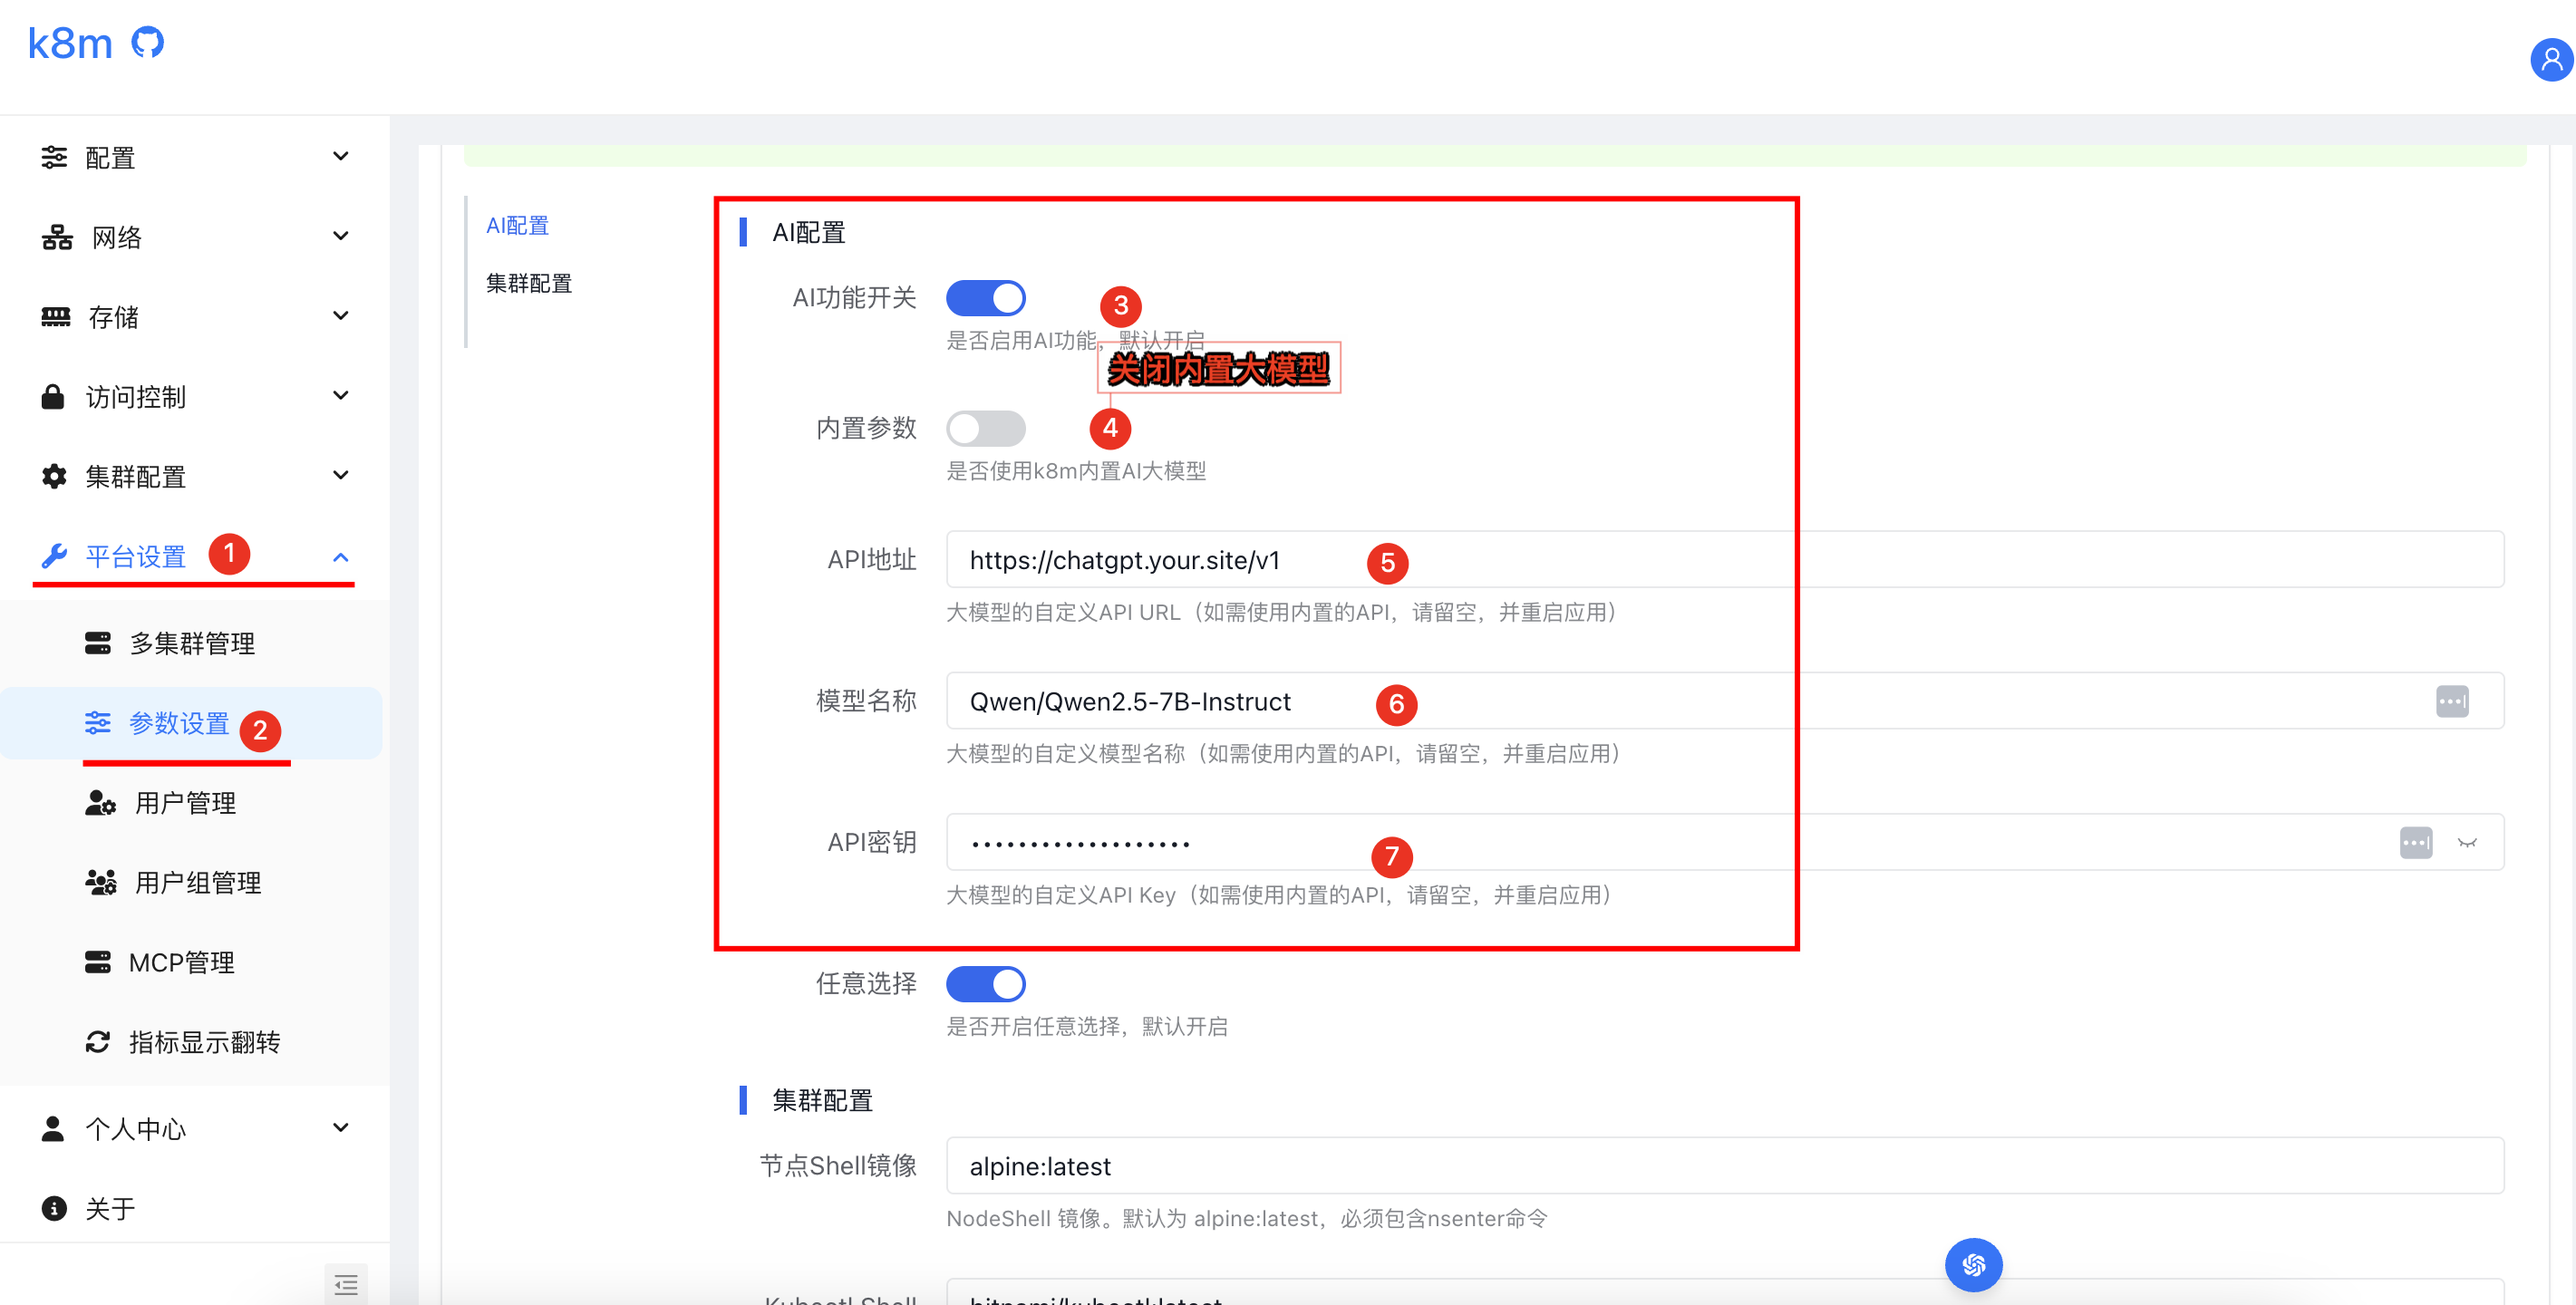
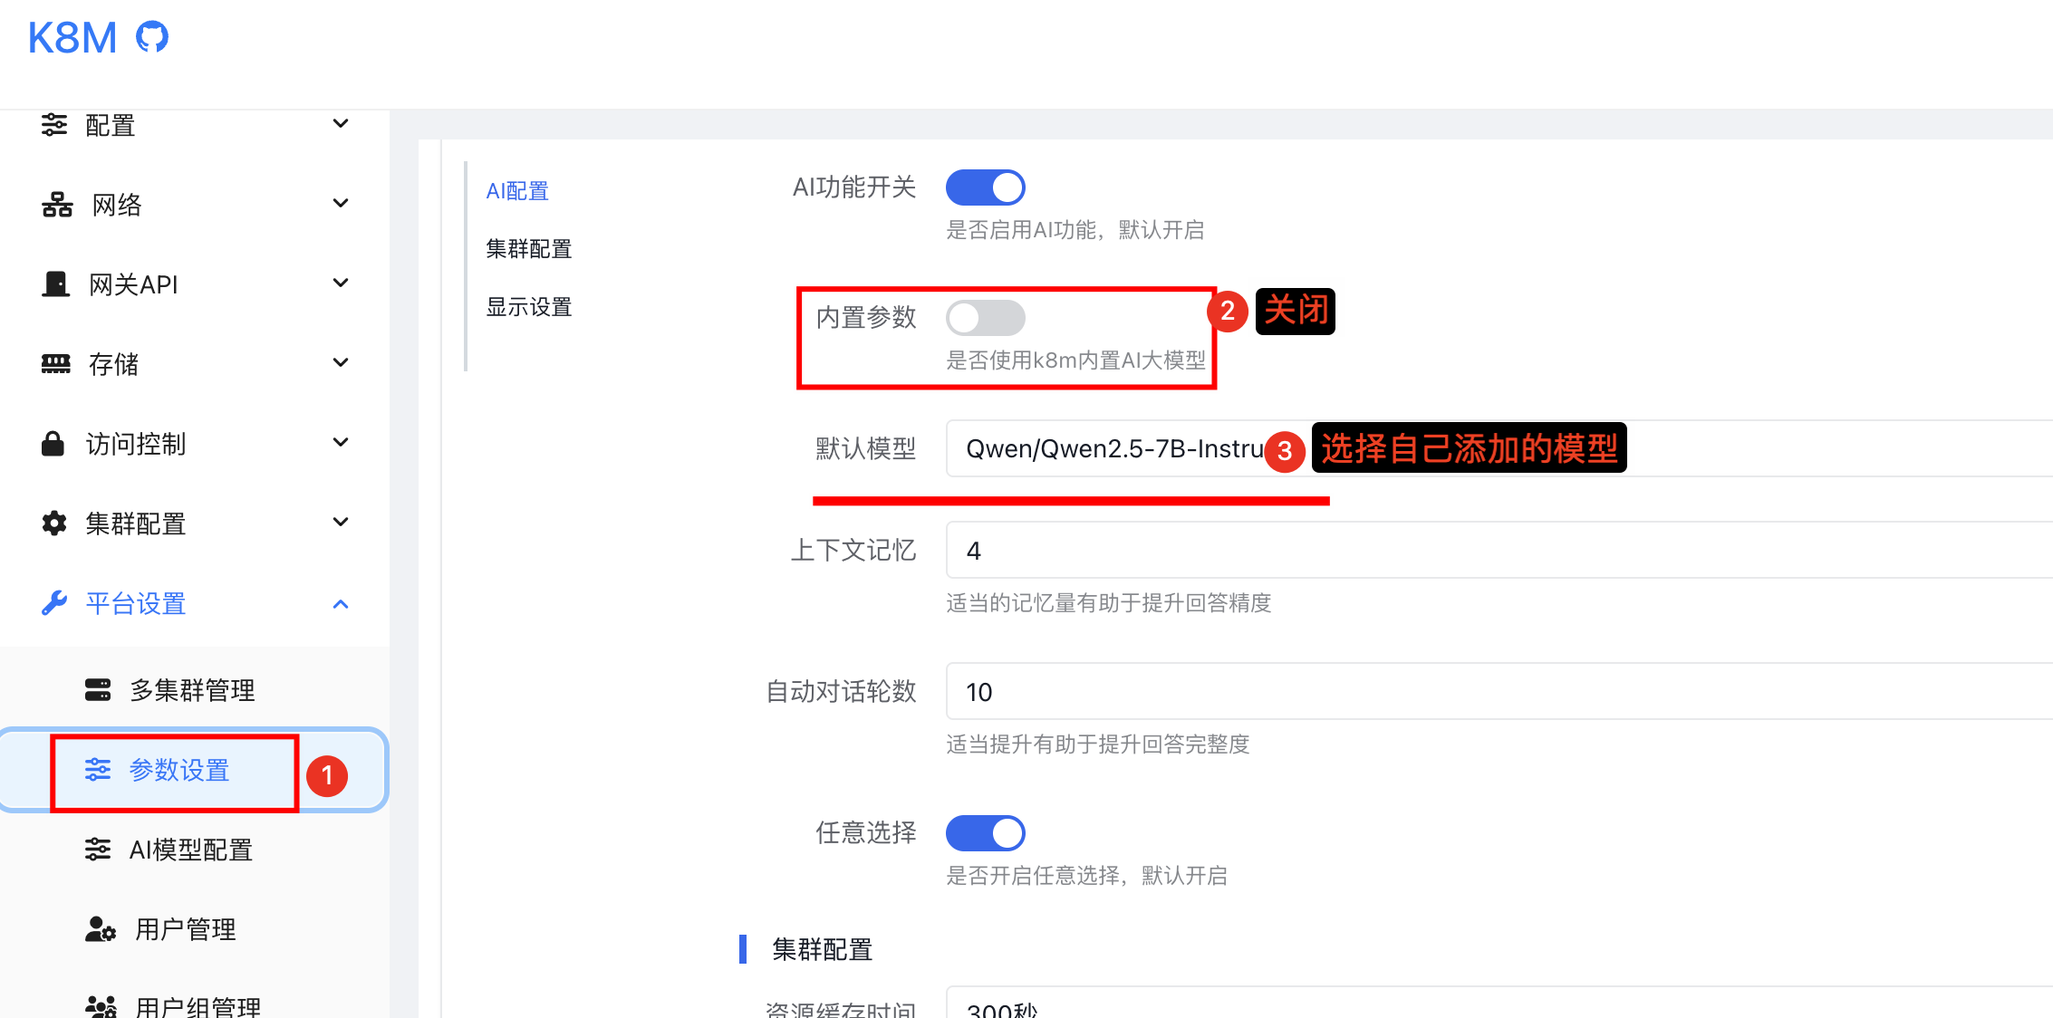
docs(use-self-hosted-ai): 简化自托管AI配置文档并更新配图
- 移除冗余的YAML配置示例，聚焦界面可视化配置方式
- 新增AI模型选择和配置的示意图
- 优化文档结构使其更清晰易读

diff --git a/docs/use-self-hosted-ai.md b/docs/use-self-hosted-ai.md
@@ -1,93 +1,15 @@
 # 如何使用自托管的AI
 
 K8M 支持使用自托管大模型，要求接口兼容OpenAI接口。
-配置上支持yaml配置、界面可视化配置两种方式。
-自定义大模型配置方式同样适用本方案。
 
-# 方法一、界面可视化配置
-进入K8M管理后台，点击左侧菜单中的 `平台设置-参数设置` ，进入AI配置页面
-![AI配置页面](/images/use-self-hosted-ai/ai-config.png)
+# 界面可视化配置
 
+进入K8M管理后台，点击左侧菜单中的 `平台设置-参数设置`。
 
-# 方法二、Yaml配置方式
-## docker-compose配置
-在 `docker-compose.yml` 中添加以下配置：
-```yaml
-services:
-  k8m:
-    container_name: k8m
-    image: registry.cn-hangzhou.aliyuncs.com/minik8m/k8m
-    restart: always
-    ports:
-      - "3618:3618"
-    environment:
-      TZ: Asia/Shanghai
-      ENABLE_TEMP_ADMIN: true
-      ADMIN_USERNAME: admin
-      ADMIN_PASSWORD: 123456
-      #启用AI
-      ENABLE_AI: true
-      #关闭内置大模型
-      USE_BUILTIN_MODEL: false
-      # 设置私有化大模型
-      OPENAI_API_KEY: sk-xxxxxxxx
-      OPENAI_API_URL: https://api.siliconflow.cn/v1
-      OPENAI_MODEL: Qwen/Qwen2.5-7B-Instruct
-    volumes:
-      - ./data:/app/data
-```
-
-
-## kubernetes 配置
-在 `k8m.yaml` 中添加以下配置：
-```yaml
-apiVersion: apps/v1
-kind: Deployment
-metadata:
-  name: k8m
-  namespace: k8m
-  labels:
-    app: k8m
-spec:
-  replicas: 1
-  selector:
-    matchLabels:
-      app: k8m
-  template:
-    metadata:
-      labels:
-        app: k8m
-    spec:
-      containers:
-        - name: k8m
-          image: registry.cn-hangzhou.aliyuncs.com/minik8m/k8m:v0.0.87
-          env:
-            # 开启AI功能，默认开启
-            - name: ENABLE_AI
-              value: "true"
-            # 关闭内置大模型
-            - name: USE_BUILTIN_MODEL
-              value: "false"
-            # 大模型密钥、地址、模型
-            - name: OPENAI_API_KEY
-              value: "sk-xxxx"
-            - name: OPENAI_API_URL
-              value: "https://api.siliconflow.cn/v1"
-            - name: OPENAI_MODEL
-              value: "Qwen/Qwen2.5-7B-Instruct" 
-          ports:
-            - containerPort: 3618
-              protocol: TCP
-              name: http-k8m
-          imagePullPolicy: IfNotPresent
-          volumeMounts:
-            - name: k8m-data
-              mountPath: /app/data
-      restartPolicy: Always
-      serviceAccountName: k8m
-      volumes:
-        - name: k8m-data
-          persistentVolumeClaim:
-            claimName: k8m-pvc
-
-```
+1. 添加AI模型
+   ![AI模型添加](/images/use-self-hosted-ai/ai_model_config.png)
+2. 配置AI模型
+   请首先关闭AI内置参数，然后选择自托管的AI接口
+   ![AI配置页面](/images/use-self-hosted-ai/ai-config.png)
+   ![AI模型选择](/images/use-self-hosted-ai/ai-model-select.png)
+    
